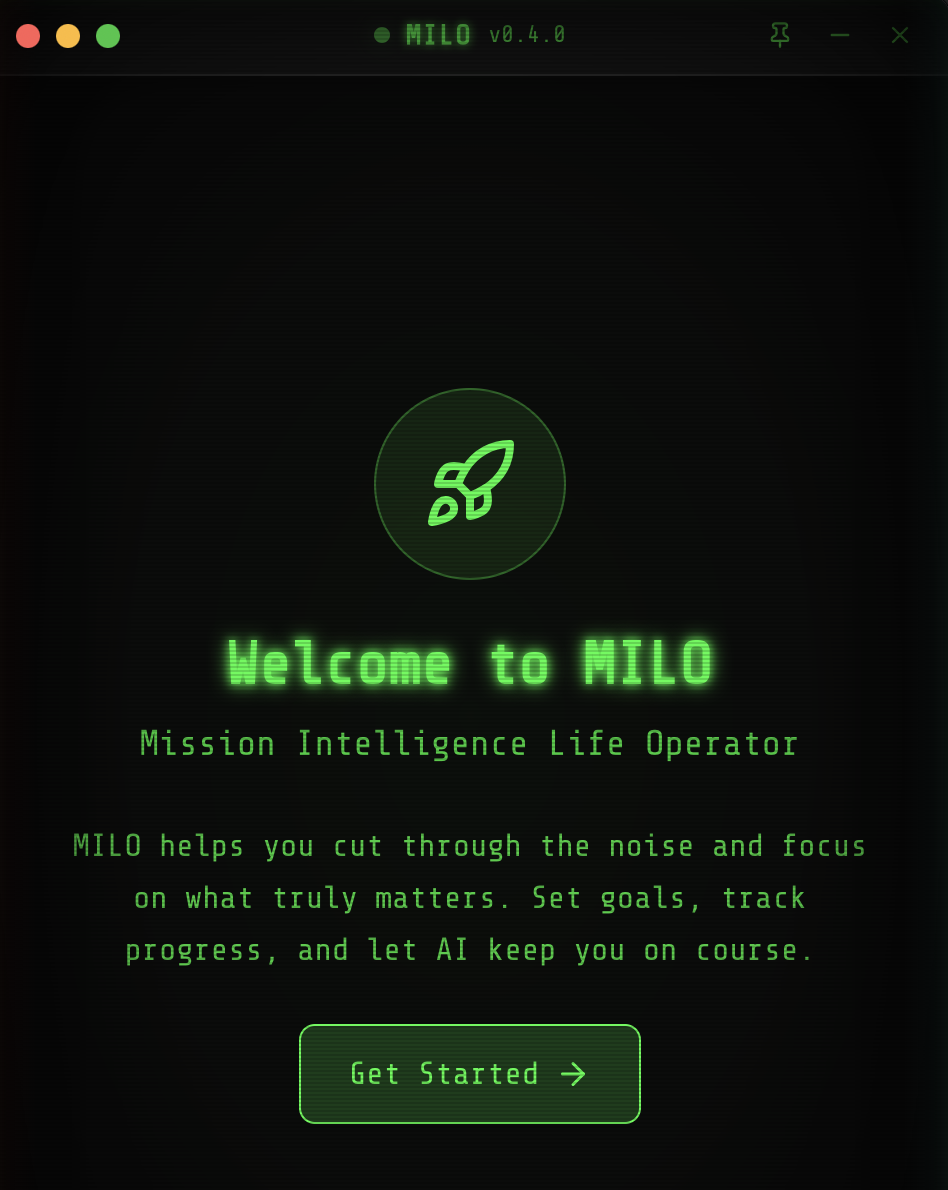
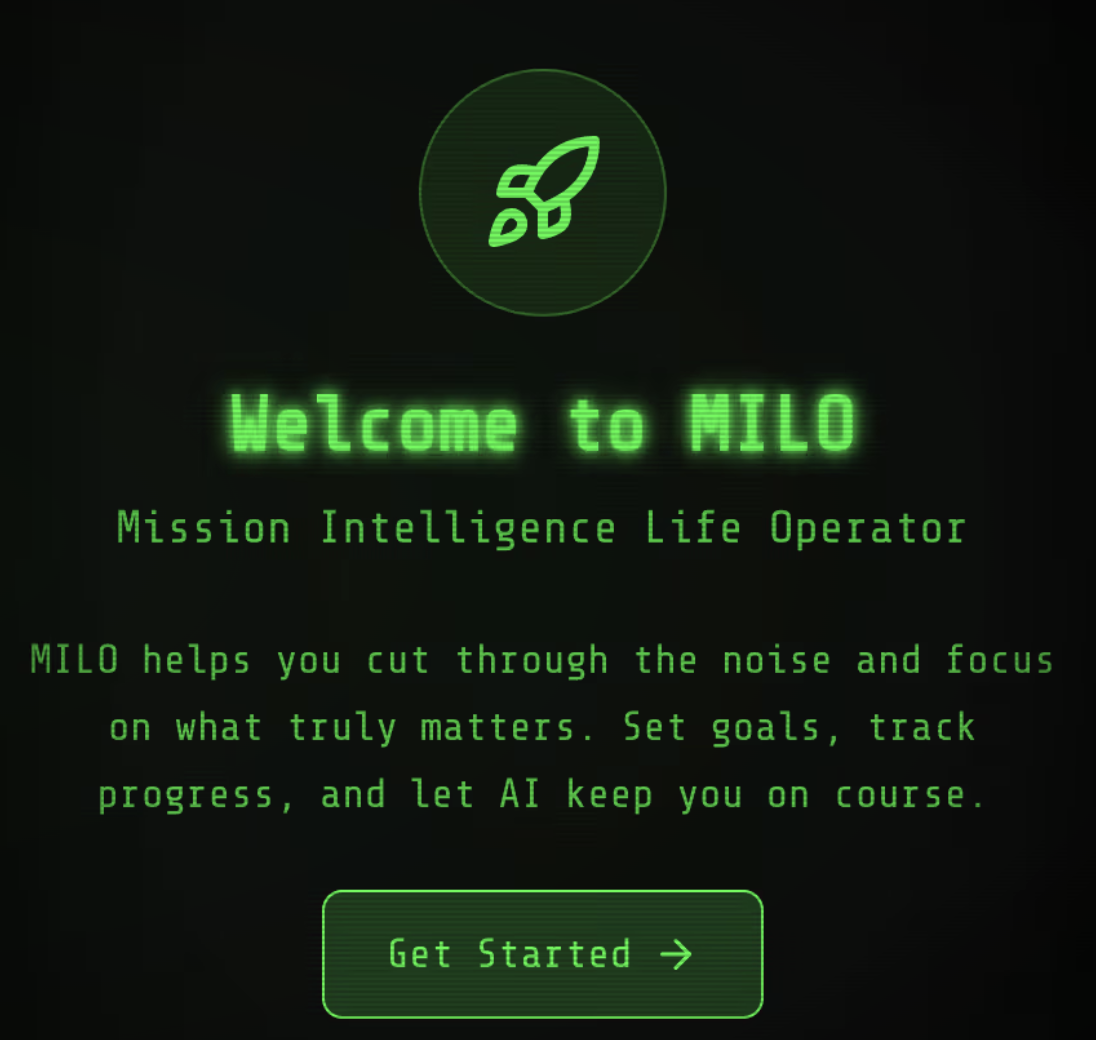
Update MILO landing page images
- Replace welcome screen with cleaner version (no border)
- Center the welcome image in its container
- Replace "One button. Done." section image with Execute Task dialog
- Center the one-shot image in its container

🤖 Generated with [Claude Code](https://claude.com/claude-code)

diff --git a/app/products/milo/page.tsx b/app/products/milo/page.tsx
@@ -220,18 +220,20 @@ export default function MILOLandingPage() {
           {/* Right: Screenshots */}
           <ScrollReveal delay={0.4} direction="right">
             <div className="space-y-6">
-              {/* Welcome Screen */}
-              <div className="relative group">
-                <div className="absolute inset-0 bg-gradient-to-br from-[#00ff41]/20 to-transparent opacity-0 group-hover:opacity-100 transition-opacity duration-300 rounded-lg" />
-                <div className="relative border-2 border-[#333333] group-hover:border-[#00ff41] transition-all duration-300 rounded-lg overflow-hidden">
-                  <Image
-                    src="/products/milo/milo-welcome.png"
-                    alt="MILO Welcome Screen"
-                    width={800}
-                    height={600}
-                    className="w-full h-auto"
-                    priority
-                  />
+              {/* Welcome Screen - Centered */}
+              <div className="relative group flex justify-center">
+                <div className="relative">
+                  <div className="absolute inset-0 bg-gradient-to-br from-[#00ff41]/20 to-transparent opacity-0 group-hover:opacity-100 transition-opacity duration-300 rounded-lg" />
+                  <div className="relative border-2 border-[#333333] group-hover:border-[#00ff41] transition-all duration-300 rounded-lg overflow-hidden">
+                    <Image
+                      src="/products/milo/milo-welcome.png"
+                      alt="MILO Welcome Screen"
+                      width={600}
+                      height={500}
+                      className="w-auto h-auto max-w-full"
+                      priority
+                    />
+                  </div>
                 </div>
               </div>
 
@@ -346,19 +348,21 @@ export default function MILOLandingPage() {
             </ScrollReveal>
           </div>
 
-          {/* The Star: Signal Queue with Start Button */}
+          {/* The Star: One Button Done - Execute Task */}
           <div className="grid md:grid-cols-2 gap-12 items-center">
             <ScrollReveal delay={0.2} direction="left">
-              <div className="relative group">
-                <div className="absolute inset-0 bg-gradient-to-br from-[#00ff41]/20 to-transparent opacity-0 group-hover:opacity-100 transition-opacity duration-300 rounded-lg" />
-                <div className="relative border-2 border-[#333333] group-hover:border-[#00ff41] transition-all duration-300 rounded-lg overflow-hidden shadow-[0_0_30px_rgba(0,255,65,0.3)]">
-                  <Image
-                    src="/products/milo/milo-signal-queue.png"
-                    alt="MILO Signal Queue with Start Button"
-                    width={800}
-                    height={600}
-                    className="w-full h-auto"
-                  />
+              <div className="relative group flex justify-center">
+                <div className="relative">
+                  <div className="absolute inset-0 bg-gradient-to-br from-[#00ff41]/20 to-transparent opacity-0 group-hover:opacity-100 transition-opacity duration-300 rounded-lg" />
+                  <div className="relative border-2 border-[#333333] group-hover:border-[#00ff41] transition-all duration-300 rounded-lg overflow-hidden shadow-[0_0_30px_rgba(0,255,65,0.3)]">
+                    <Image
+                      src="/products/milo/milo-one-shot.png"
+                      alt="MILO Execute Task - One Shot Done"
+                      width={600}
+                      height={500}
+                      className="w-auto h-auto max-w-full"
+                    />
+                  </div>
                 </div>
               </div>
             </ScrollReveal>
